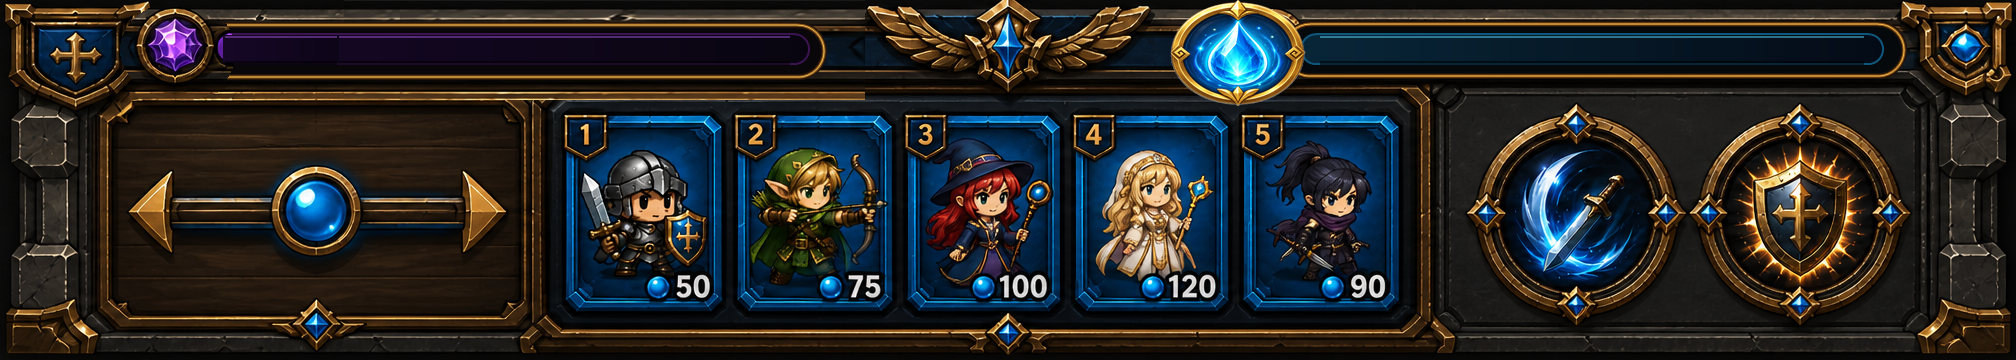
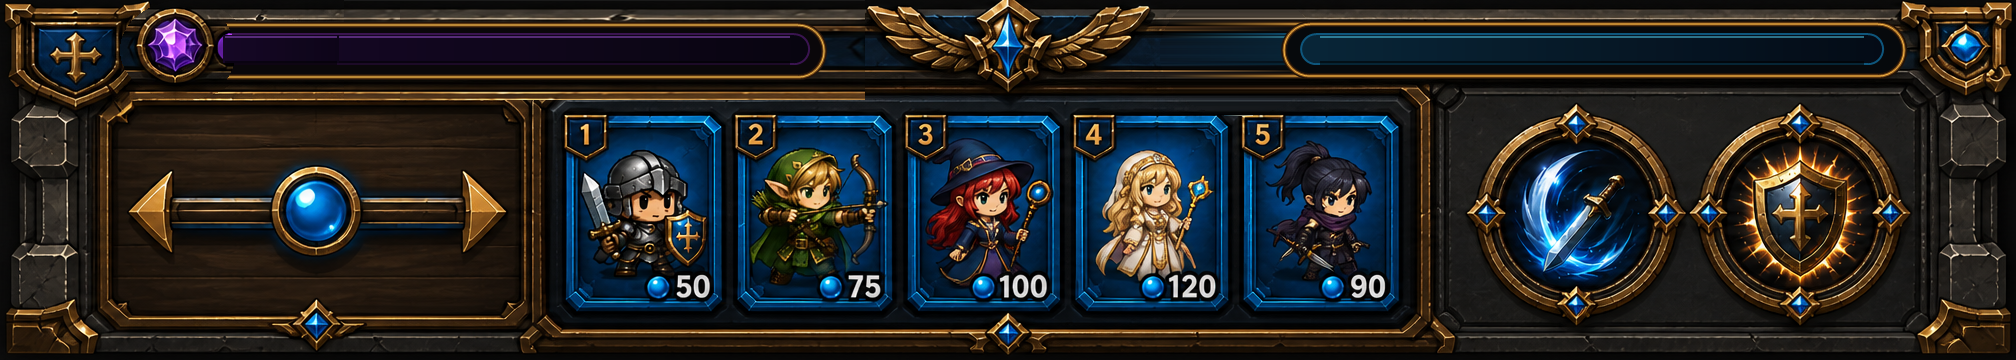
수정11

Changed region(s): [[0.5625, 0.0, 0.6562, 0.3056]]

diff --git a/style.css b/style.css
@@ -407,7 +407,15 @@ body.game-started:not(.in-lobby):not(.in-stage-select):not(.in-shop):not(.in-rec
 }
 
 .battle-mana-icon {
-  display: none;
+  position: absolute;
+  z-index: 8;
+  left: 581px;
+  top: -2px;
+  display: block;
+  width: 42px;
+  height: 39px;
+  object-fit: fill;
+  pointer-events: none;
 }
 
 .battle-command-top {
@@ -1025,7 +1033,11 @@ body.game-started:not(.in-lobby):not(.in-stage-select):not(.in-shop):not(.in-rec
   }
 
   .battle-mana-icon {
-    display: none;
+    left: 581px;
+    top: -2px;
+    display: block;
+    width: 42px;
+    height: 39px;
   }
 
   .battle-command-top {
